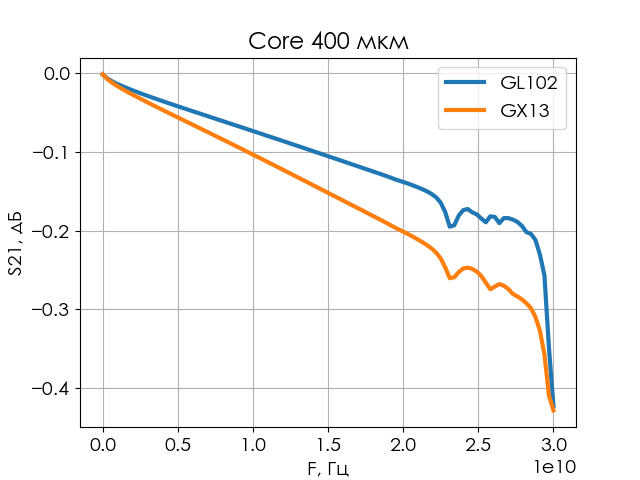
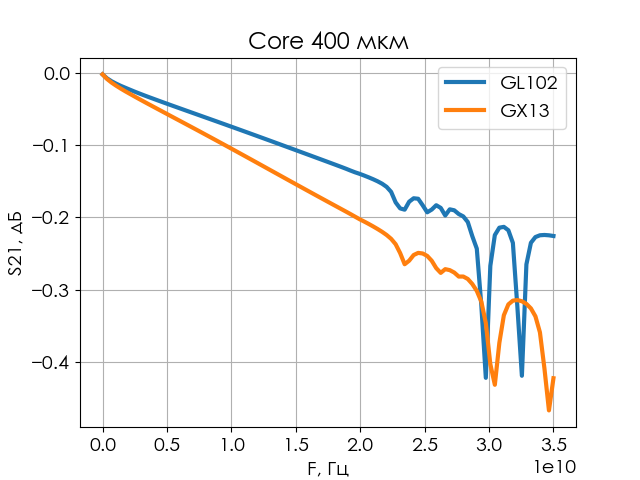
23.04.21

diff --git a/02/06.py b/02/06.py
@@ -1,0 +1,60 @@
+"""
+#For циклично повторяющиеся операции
+1) Функция range() создает диапазон
+2) enumerate() добавляет счетчик каждому обьекту, исп для построения
+индекса
+3)для чтения словаря используем функцию items()
+4)Для чтения значений словаря используем values()
+
+"""
+
+
+numbers  = [1, 2, 3, 4, 5]
+new_list  = []
+
+for i in numbers:
+    new_list.append(i)
+
+print(new_list)
+
+for x, item in enumerate(numbers):
+    numbers[x] +=10
+print(numbers)
+
+for _ in range(1, 5):
+    print("Ошибка!")
+
+some_tuple = (11, "Alex", 3.01)
+for x in some_tuple:
+    print(x)
+
+#хитрая комбинация list и tuple
+some_list = [("John", 22), ("Alex", 23)]
+
+for  (name, age) in some_list:
+    print(f'{name} is {age} year old')
+
+some_dict = {
+    "Alex": 11,
+    "Maxim":222,
+    "Oleg": 23
+}
+
+for x in some_dict:
+    print(x)
+for x in some_dict.items():
+    print(x)
+for x, y in some_dict.items():
+    print(f'Ключ {x} и значение {y}')
+for value in some_dict.values():
+    print(value)
+
+
+
+
+
+
+
+
+
+

diff --git a/02/07.py b/02/07.py
@@ -1,0 +1,36 @@
+'''
+цикл while условно бесконечный цикл пока выполняется условает Thru
+0) continue/break/pass работает как в for так и в while
+1) continue переход к следующему действию
+2) break останавливает цикл
+3) pass ничего, никакого действия
+'''
+
+import time
+
+x=1
+'''
+while True:
+    x = x+x
+    print(x)
+    time.sleep(1)
+'''
+'''
+while x<6:
+    print(f'X равно {x}')
+    x +=1
+    time.sleep(0.5)
+else:
+    print('Завершено')
+'''
+vals = [1, 2, 3, 4, 5, 6,7,  8, 8, 9, 95, 6]
+summa = 0
+for x in vals:
+    if x%2 ==0:
+        continue
+    else:
+        summa += x
+    if summa > 10:
+       break
+print(summa)
+

diff --git a/VIA_differential.py b/VIA_differential.py
@@ -26,10 +26,10 @@ def S_D(P1, P3, P2, P4, Type, Folder_1, Title_1, Legend_1):
 
 
 Title   = "Core 400 мкм"
-Folder_1   = "SP/VIA/GL102_400um_diff.s4p"
+Folder_1   = "SP/VIA/GL102_400um_diff_35.s4p"
 Legend_1   = "GL102"
 
-Folder_2   = "SP/VIA/GX13_400um_diff.s4p"
+Folder_2   = "SP/VIA/GX13_400um_diff_35.s4p"
 Legend_2   = "GX13"
 
 
@@ -47,4 +47,4 @@ plt.legend()
 plt.grid()
 plt.show()
 
-##
+#
